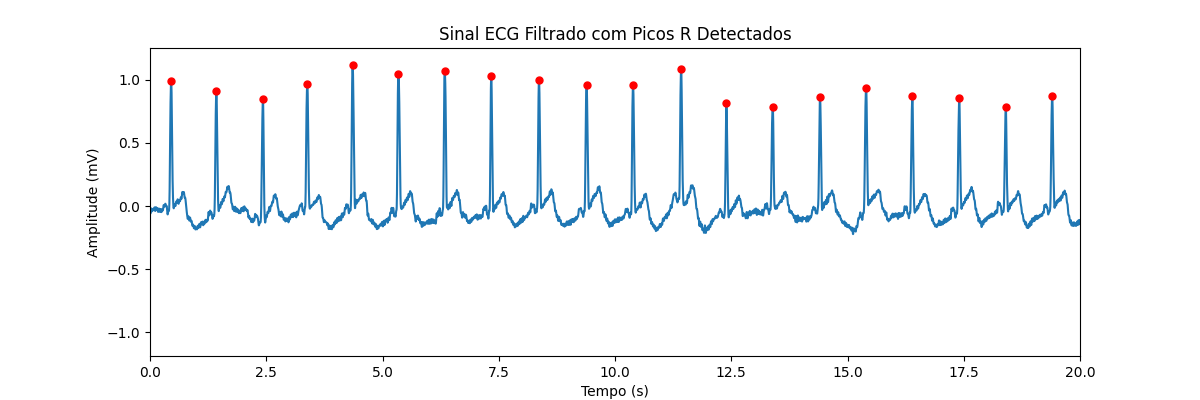
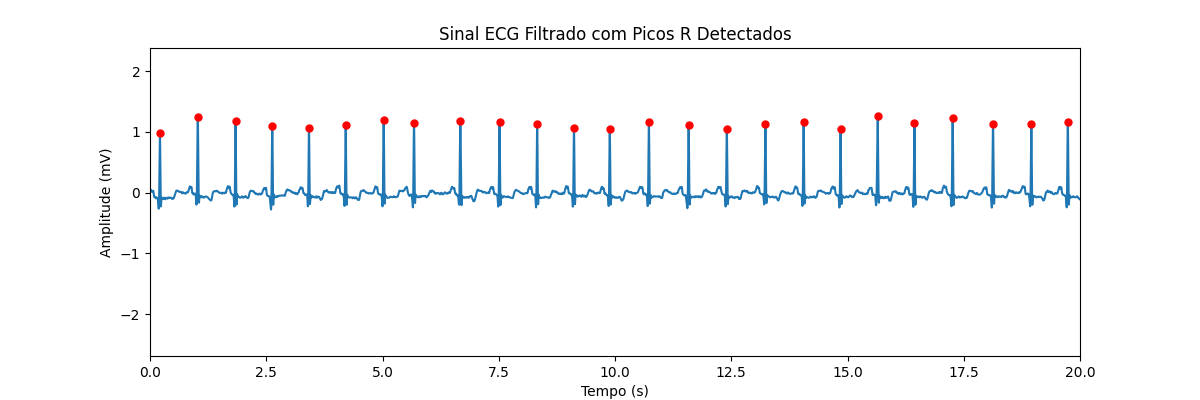
agora sim, limpo e formatado

diff --git a/projeto.py b/projeto.py
@@ -6,12 +6,9 @@ from scipy.signal import butter, filtfilt
 import neurokit2                            
 import ts2vg                                
 
-#Adicional
-#análise espectral de HRV para ilustrar o equilíbrio autonômico e discutir implicações fisiológicas
-
 # ------------------------ RECEBER AS INFORMAÇÕES DO BANCO DE DADOS ---------------------------------
 canal = 0               
-registro_ID = '121'
+registro_ID = '100'
 
 record = wfdb.rdrecord(registro_ID, pn_dir= 'mitdb')
 sinal_bruto = record.p_signal[:, canal]
@@ -72,17 +69,17 @@ mediaRR = numpy.mean(intervalosRR_ms)
 desvioRR = numpy.std(intervalosRR_ms)
 mediaBPM = numpy.mean(FC_instantanea)
 
-print("\n-------------- Tabela 1 ------------------")
-print("\n--- Tabela de Resumo dos Intervalos RR ---")
-print(f"Frequência Cardíaca Média: {mediaBPM:.2f} BPM")
-print(f"Média dos Intervalos RR: {mediaRR:.2f} ms")
-print(f"Desvio Padrão dos Intervalos RR: {desvioRR:.2f} ms")
+print("\n================== Tabela 1 =====================")
+print("||          Resumo dos Intervalos RR           ||")
+print("||                                             ||")
+print(f"|| Frequência Cardíaca Média        {mediaBPM:6.2f} BPM ||")
+print(f"|| Média dos Intervalos RR          {mediaRR:6.2f} ms  ||")
+print(f"|| Desvio Padrão dos Intervalos RR  {desvioRR:6.2f} ms  ||")
+print("=================================================")
 
 # ----------------- CONSTRUÇÃO DOS GRÁFICOS TEMPORAIS E HISTOGRAMA -----------------------
 tempo_picos = picosR / fs
 
-# vetor contendo os meios dos intervalos entre as batidas para construir o tacograma/gráfico temporal 
-# possui tamanho de picos - 1 já que vai pegar o ponto entre os intervalos
 tempo_inst = tempo_picos[:-1] + (numpy.diff(tempo_picos) / 2) 
 
 # gráfico temporal
@@ -124,12 +121,14 @@ falso_positivo = comparacao.fp
 
 Sensibilidade = (verdadeiro_positivo / (verdadeiro_positivo + falso_negativo)) * 100
 preditivo_pos = (verdadeiro_positivo / (verdadeiro_positivo + falso_positivo)) * 100
-print("\n--------------------- Tabela 2 ------------------------")
-print("--- Métricas de Desempenho da Detecção de Picos R ---")
-print(f"|Total de Batimentos de Referência: {len(picos_r_referencia)}")
-print(f"|Verdadeiros Positivos (TP): {verdadeiro_positivo}")
-print(f"|Falsos Negativos (FN): {falso_negativo}")
-print(f"|Falsos Positivos (FP): {falso_positivo}")
-print("|-----------------------------------------------------")
-print(f"|Sensibilidade (Se): {Sensibilidade:.2f} %")
-print(f"|Valor Preditivo Positivo (PPV): {preditivo_pos:.2f} %")
+print("\n==================== Tabela 2 ======================")
+print("|| Métricas de Desempenho da Detecção de Picos R  ||")
+print("||                                                ||")
+print(f"|| Total de Batimentos de Referência  {len(picos_r_referencia):4d}        ||")
+print(f"|| Verdadeiros Positivos (TP)         {verdadeiro_positivo:4d}        ||")
+print(f"|| Falsos Negativos (FN)              {falso_negativo:4d}        ||")
+print(f"|| Falsos Positivos (FP)              {falso_positivo:4d}        ||")
+print("|| ---------------------------------------------- ||")
+print(f"|| Sensibilidade (Se)                 {Sensibilidade:3.2f} %     ||")
+print(f"|| Valor Preditivo Positivo (PPV)     {preditivo_pos:3.2f} %     ||")
+print("====================================================")

diff --git a/README.md b/README.md
@@ -2,12 +2,12 @@
 Este repositório faz parte da entrega do projeto final da matéria de Processamento Digital de Sinais no segundo semestre de 2025.
 
 # Resumo do projeto
-Trata-se de um algoritmo capaz de identificar picos R - deflexões mais proeminentes do complexo QRS, principais deflexões do eletrocardiograma - a partir de um banco de dados de registros de eletrocardiogramas, o qual foi solicitado para filtrar os sinais com o filtro passa-banda, encontrar tais picos e analisar os intervalos de um ponto R a outro, descrito como intervalo RR, podendo assim encontrar a variabilidade do ritmo cardíaco e da frequência cardíaca
+Trata-se de um algoritmo capaz de identificar picos R - deflexões mais proeminentes do complexo QRS, principais deflexões do eletrocardiograma - a partir de um banco de dados de registros de eletrocardiogramas, o qual foi solicitado para filtrar os sinais com o filtro passa-banda, encontrar tais picos e analisar os intervalos de um ponto R a outro, descrito como intervalo RR, podendo assim encontrar a frequência cardíaca instantânea e média
 
 # Processo
 - filtragem passa-banda (0,5Hz a 40Hz) para eliminar ruídos de baixa frequencia e interferência de rede elétrica (50/60Hz)
 - aplicar tecnicas para localizar as posições de picos R (nesse caso foi usada a Emrich 2023)
-- com a analise dos intervalos RR é possível calcular frequencia cardíaca instantânea, BPM e variabilidade de ritmo cardiaco (HRV)
+- com a analise dos intervalos RR é possível calcular frequencia cardíaca instantânea, BPM e média e desvio padrão dos intervalos RR
 
 # Resultados
 - gráfico do sinal inicial recebido do banco de dados
